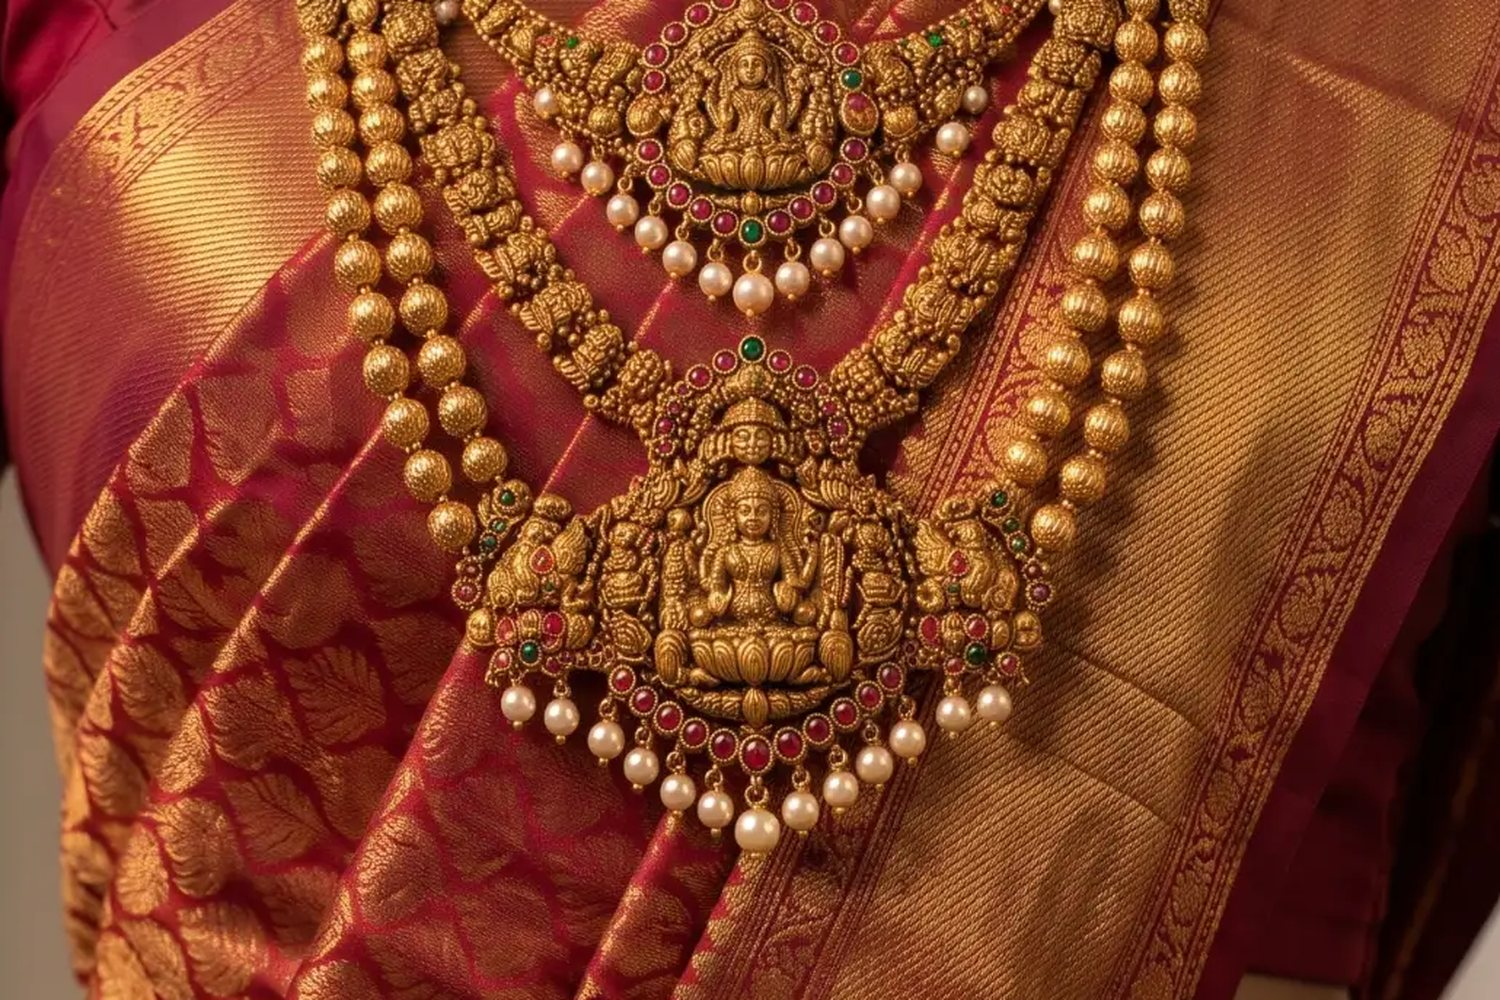
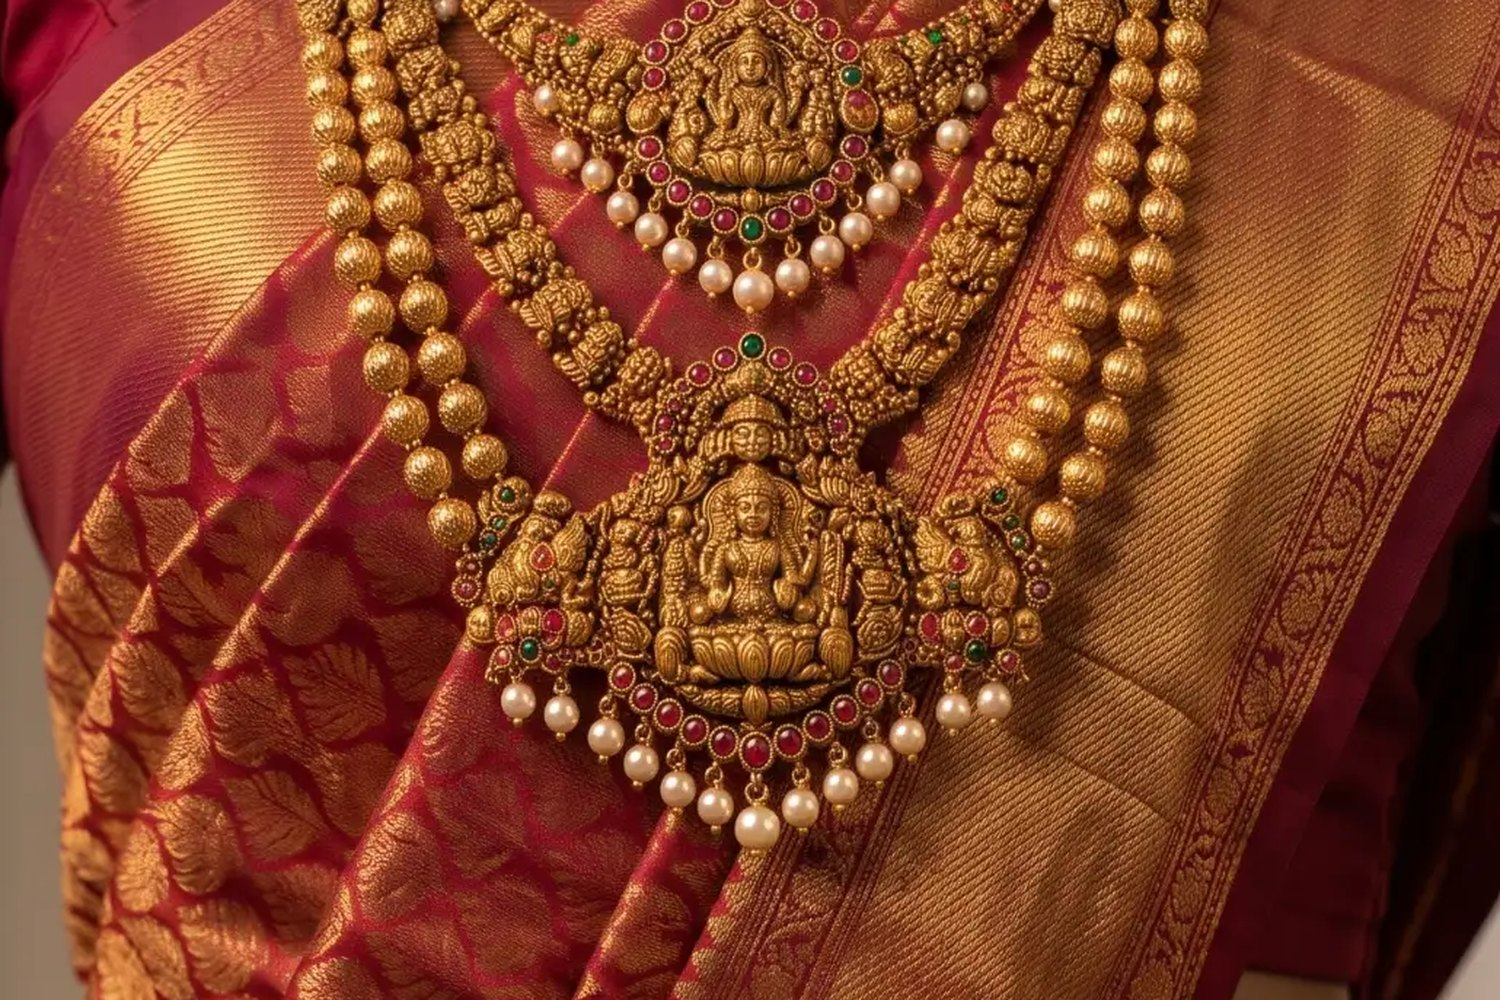
Recut the hero details so the jewellery fills the frame
The bangles slide was mostly crossed hands and the earring slide mostly
lips and nose: the pieces were incidental in both. Cut tighter, from
the originals, choosing regions where the gold carries the frame.

Six slides now: the full-length portrait, the layered haram, the
choker and long haram, a single bangle stack, the vaddanam, and the
jhumka pair. Each is 3:2 against a 1.47 column, so nothing is lost to
cropping.

diff --git a/index.html b/index.html
@@ -66,8 +66,10 @@
       <div class="hero-bg" id="heroSlides" aria-hidden="true">
         <img class="is-active is-portrait" src="images/hero/hero-1-full.jpg" fetchpriority="high" alt="">
         <img src="images/hero/hero-2-haram.jpg" loading="lazy" alt="">
-        <img src="images/hero/hero-3-bangles.jpg" loading="lazy" alt="">
-        <img src="images/hero/hero-4-earrings.jpg" loading="lazy" alt="">
+        <img src="images/hero/hero-3-necklace.jpg" loading="lazy" alt="">
+        <img src="images/hero/hero-4-bangles.jpg" loading="lazy" alt="">
+        <img src="images/hero/hero-5-belt.jpg" loading="lazy" alt="">
+        <img src="images/hero/hero-6-jhumka.jpg" loading="lazy" alt="">
       </div>
       <div class="hero-dots" id="heroDots" role="tablist" aria-label="Choose a picture"></div>
     </div>
